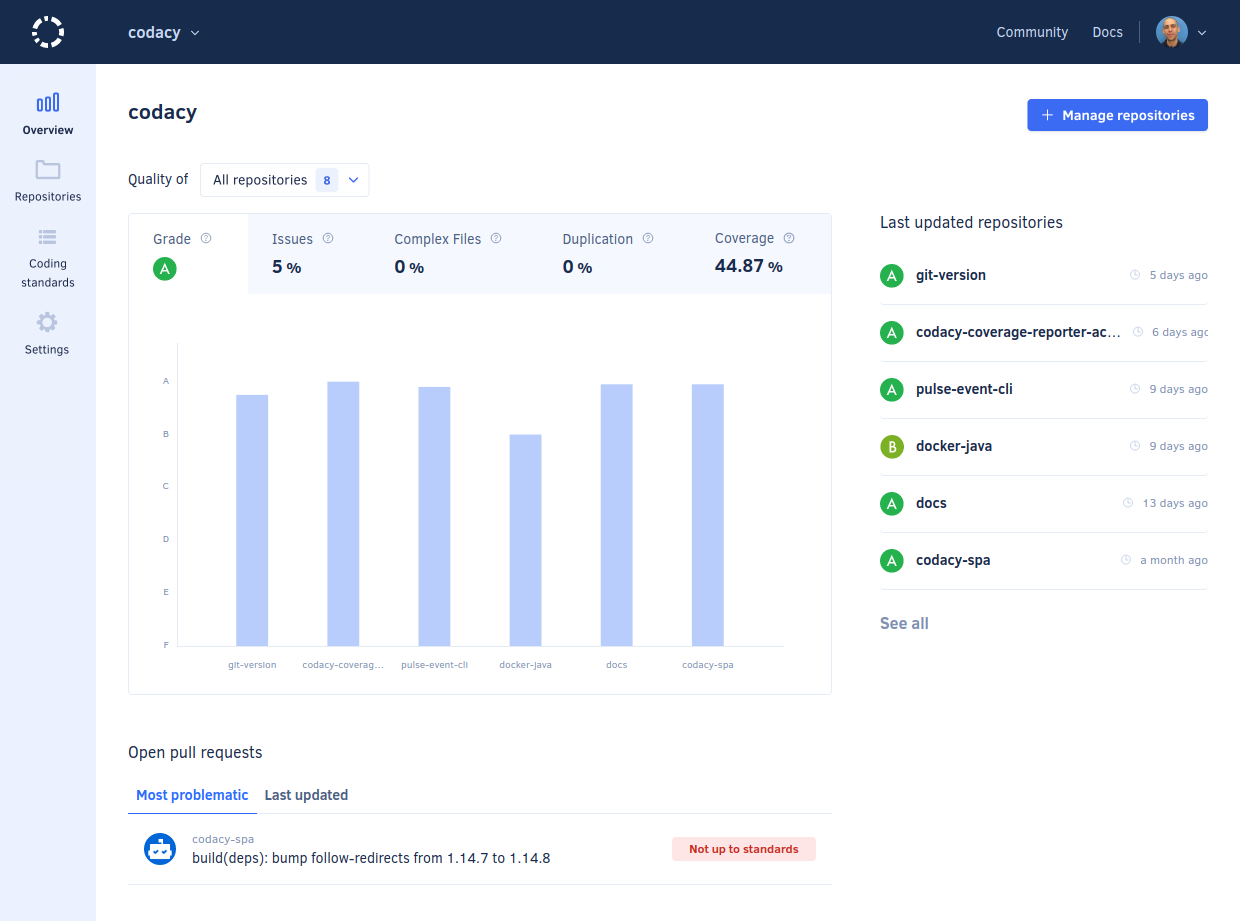
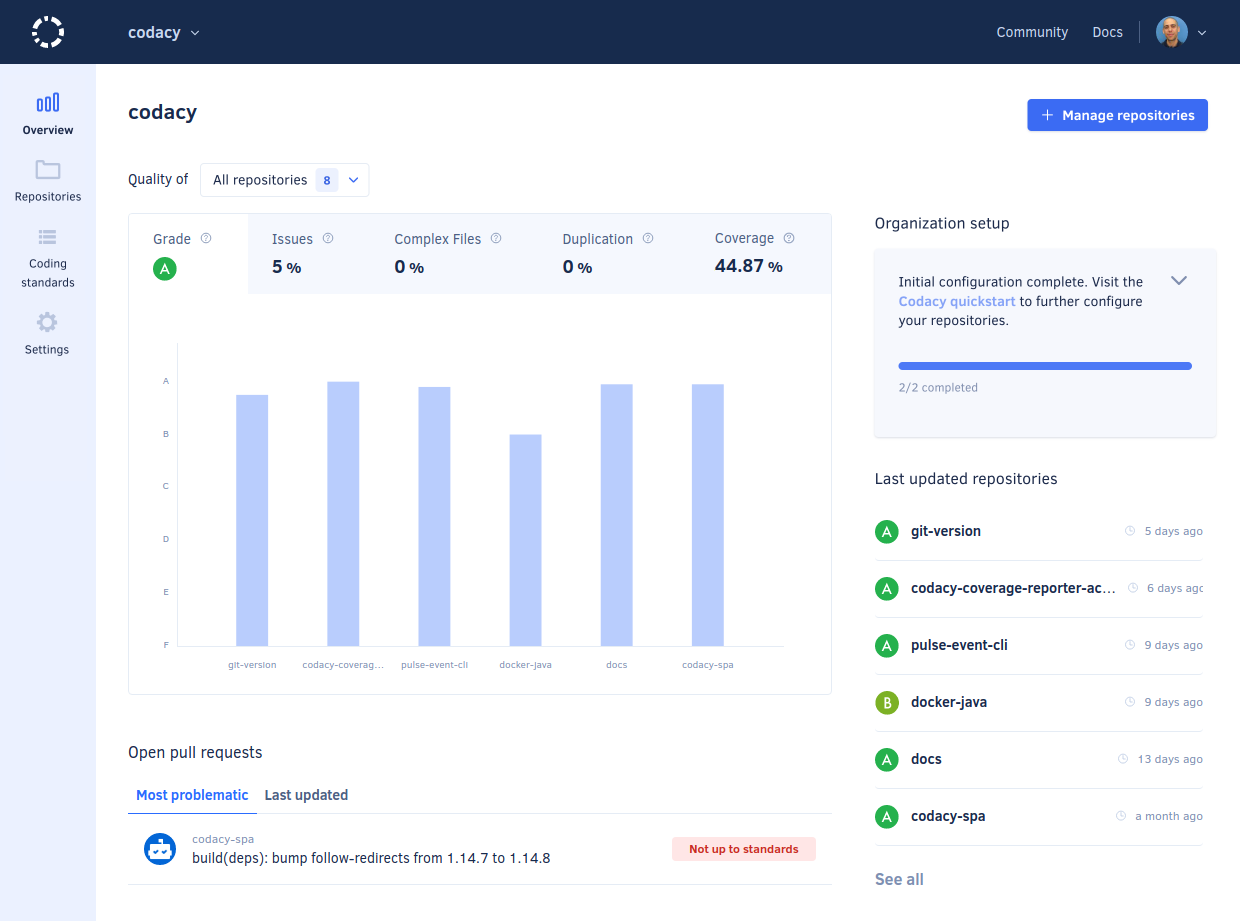
feat: Document the Organization setup area

diff --git a/docs/organizations/organization-overview.md b/docs/organizations/organization-overview.md
@@ -25,6 +25,7 @@ On the Organization overview you have the following areas to help you monitor yo
 
 -   [Overall quality chart](#overall-quality-chart)
 -   [Open pull requests](#open-pull-requests)
+-   [Organization setup](#organization-setup)
 -   [Last updated repositories](#last-updated-repositories)
 
 The following sections provide a detailed description of each dashboard area.
@@ -63,6 +64,10 @@ The **Last updated** tab displays open pull requests sorted by the date of updat
 ![Last updated pull requests](images/organization-overview-prs-last-updated.png)
 
 Click a pull request to see the [details of that pull request](../repositories/pull-requests.md#status).
+
+## Organization setup
+
+The **Organization setup** area displays the status of the initial configuration of your organization on Codacy. It provides you with a checklist of items that you should complete to ensure that your organization is set up correctly and that you're getting the most out of Codacy.
 
 ## Last updated repositories
 
